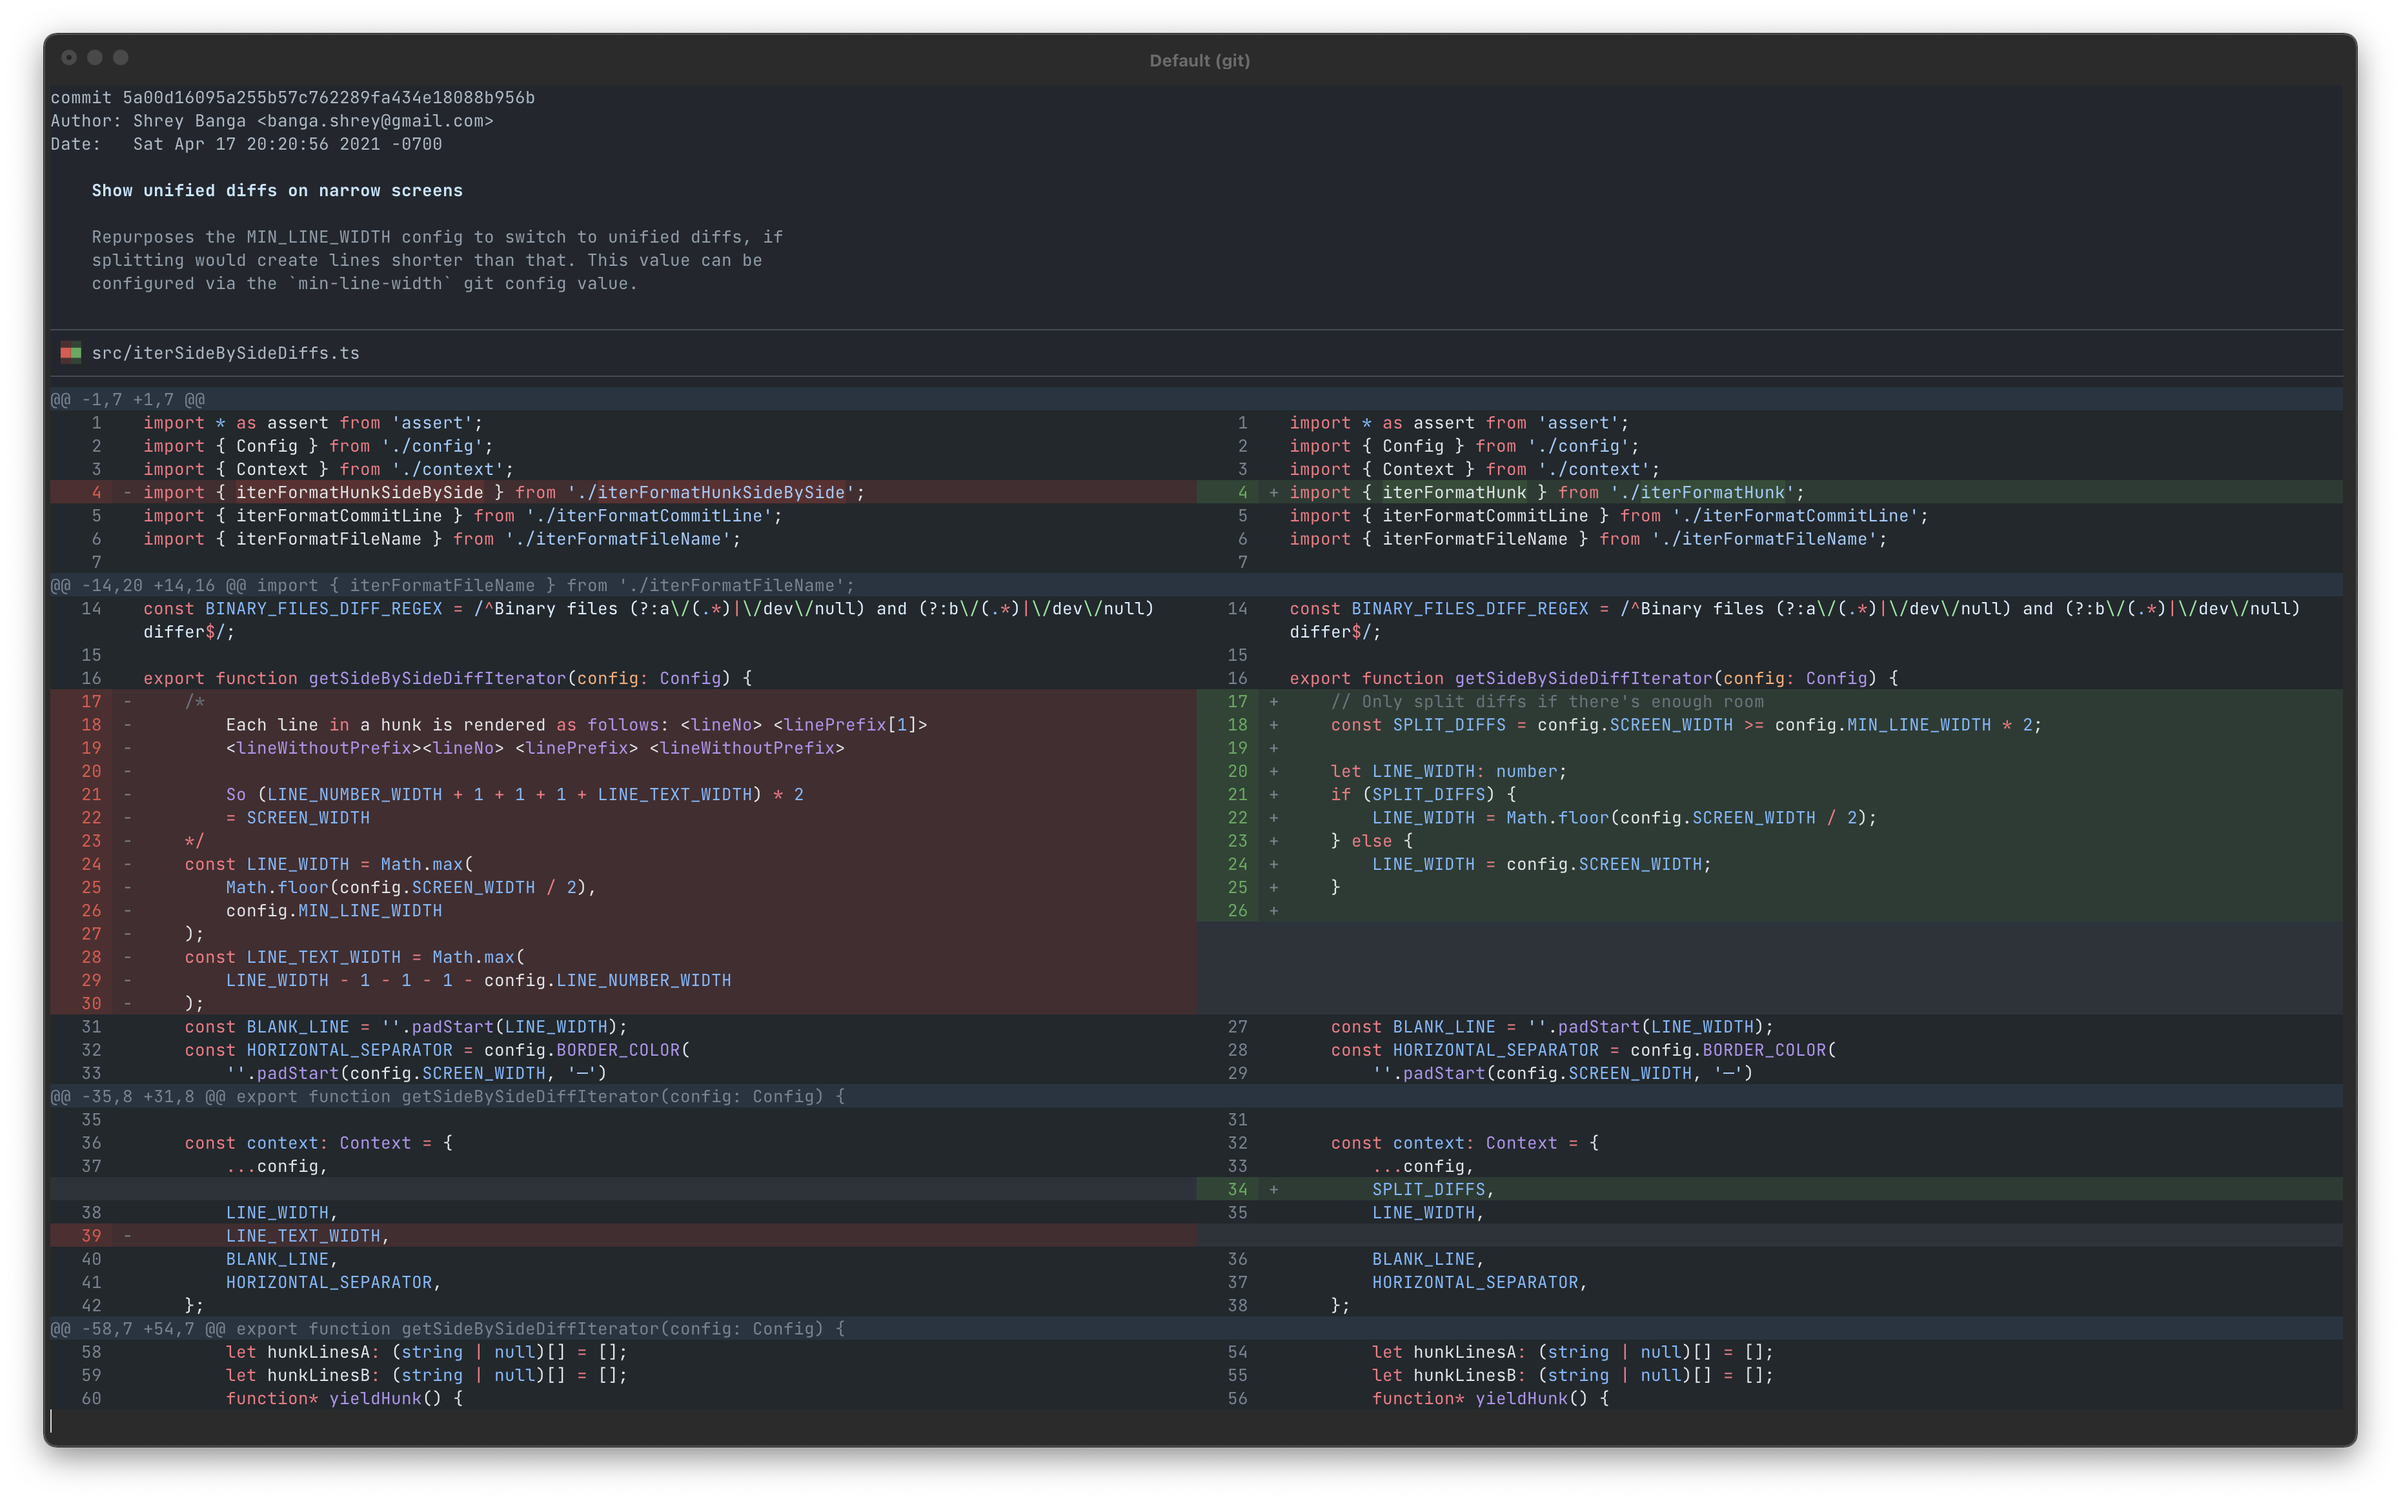
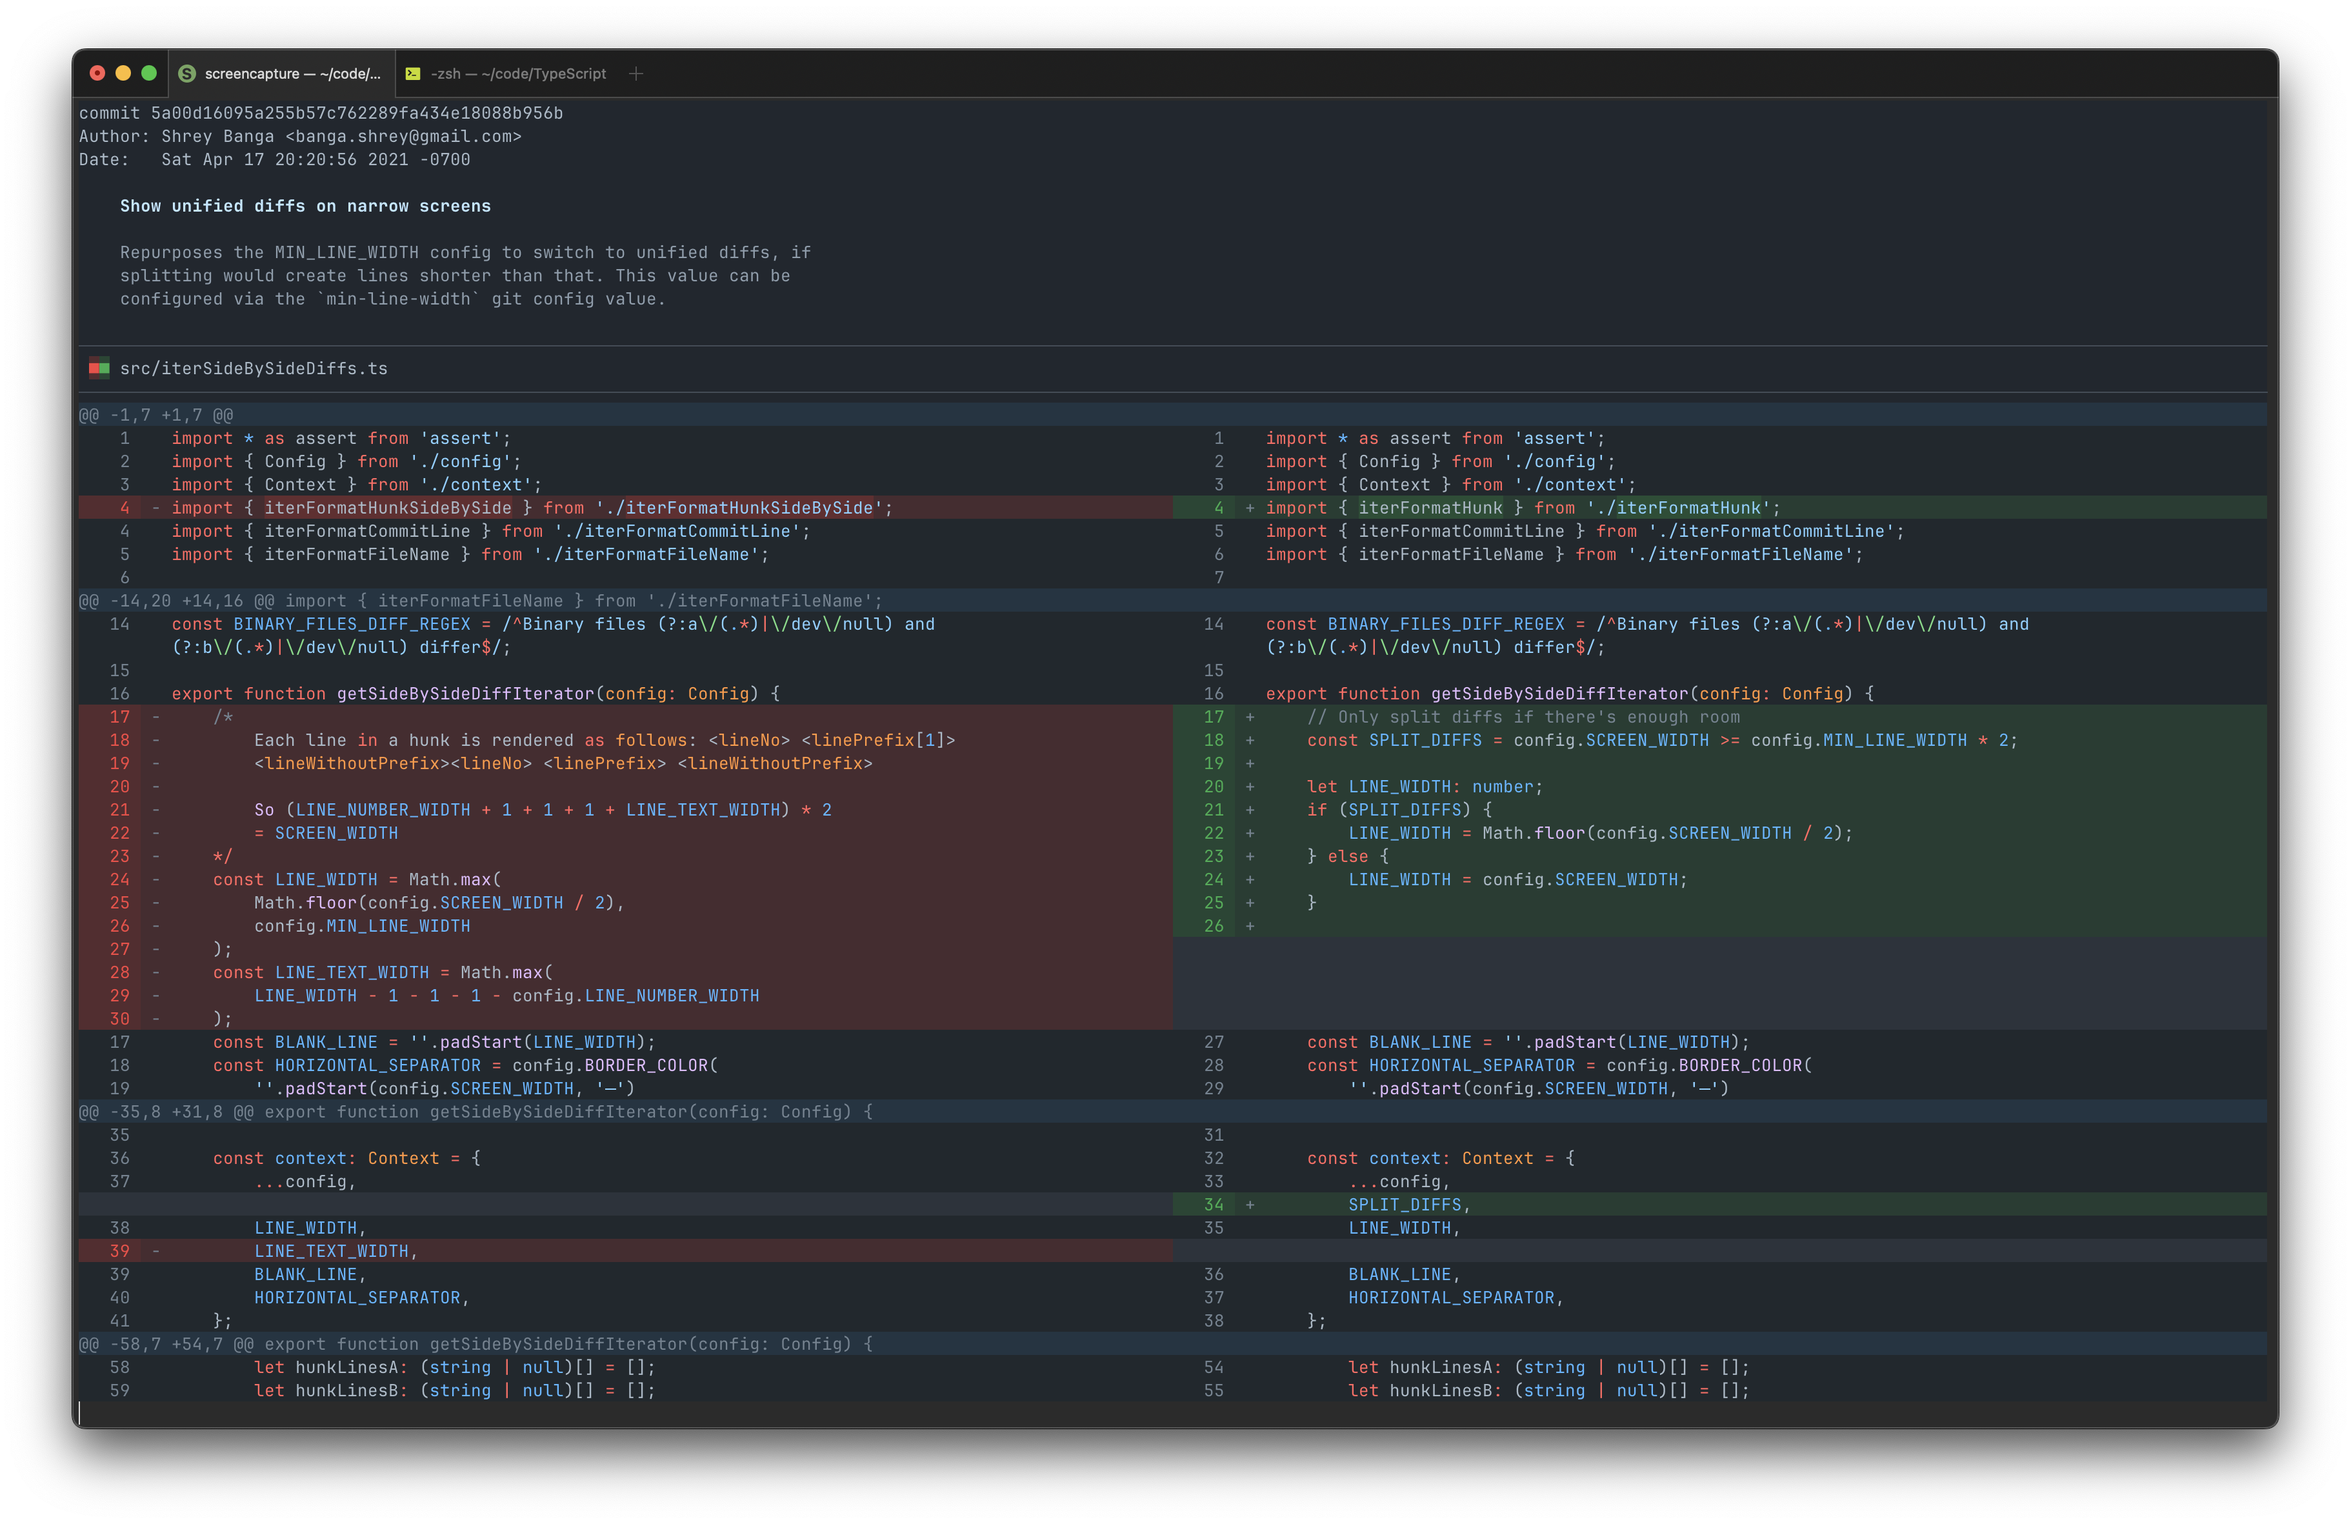
Pick up updates to syntax highlighting themes from shiki
- New location for list of themes
- Add support for 3-digit hex colors
- Use better default theme for github-dark-dim and solarized-light

diff --git a/src/themes.ts b/src/themes.ts
@@ -77,21 +77,24 @@ export type ThemeColor = {
  * The hex string is of the format #rrggbb(aa)
  */
 function hexToRgba(hex: string): ColorRgba {
-    assert.ok(hex.length === 7 || hex.length === 9);
+    assert.ok(hex.length === 7 || hex.length === 9 || hex.length === 4, hex);
 
-    let hexNo = parseInt(hex.slice(1), 16);
+    hex = hex.slice(1);
+
+    let hexNo = parseInt(hex, 16);
+    let bits = hex.length === 3 ? 4 : 8;
 
     let a = 255;
-    if (hex.length === 9) {
+    if (hex.length === 8) {
         a = hexNo & 0xff;
-        hexNo >>>= 8;
+        hexNo >>>= bits;
     }
 
     const b = hexNo & 0xff;
-    hexNo >>>= 8;
+    hexNo >>>= bits;
 
     const g = hexNo & 0xff;
-    hexNo >>>= 8;
+    hexNo >>>= bits;
 
     const r = hexNo & 0xff;
 

diff --git a/README.md b/README.md
@@ -71,7 +71,7 @@ Syntax highlighting is supported via [shiki](https://github.com/shikijs/shiki/),
 git config split-diffs.syntax-highlighting-theme <name>
 ```
 
-The supported syntax highlighting themes are listed at https://github.com/shikijs/shiki/blob/v0.9.3/docs/themes.md
+The supported syntax highlighting themes are listed at https://github.com/shikijs/textmate-grammars-themes/tree/main/packages/tm-themes#tm-themes
 
 You can disable syntax highlighting by setting the name to empty:
 
@@ -175,11 +175,11 @@ git config split-diffs.theme-name monochrome-light
 
 Tested by measuring the time it took to pipe the output `git log -p` to `/dev/null` via `git-split-diffs` with the default theme:
 
-| Features enabled                                      | ms/kloc         |
-| ----------------------------------------------------- | --------------- |
-| Everything                                            | 45              |
-| No syntax highlighting                                | 15              |
-| No syntax highlighting, no inline change highlighting | 13              |
+| Features enabled                                      | ms/kloc |
+| ----------------------------------------------------- | ------- |
+| Everything                                            | 45      |
+| No syntax highlighting                                | 15      |
+| No syntax highlighting, no inline change highlighting | 13      |
 
 ## Troubleshooting
 
